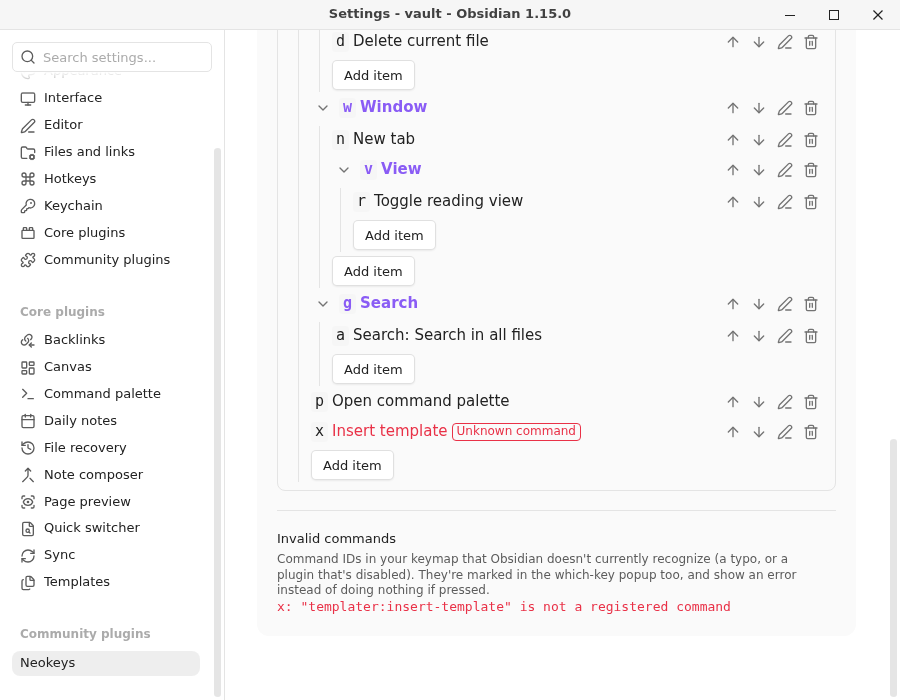
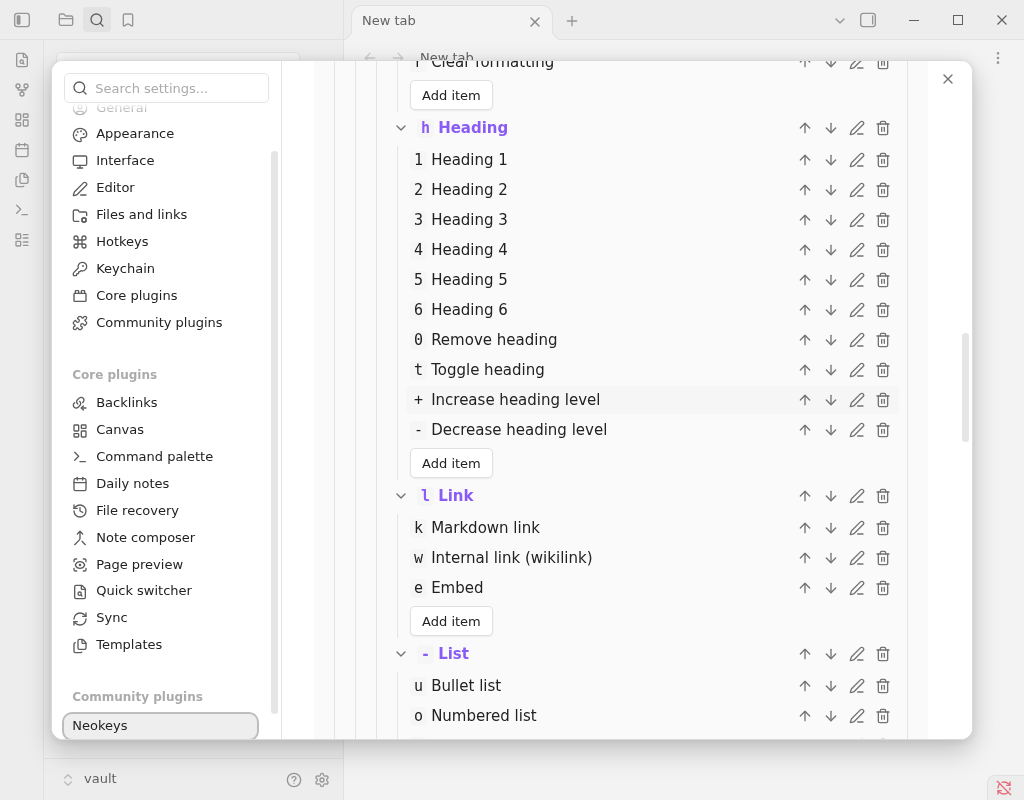
Update README and screenshots for the new default keymap
Document the File/Text/Window/palette scheme and the heading-level
increase/decrease semantics, and replace which-key/tree-editor
screenshots that depicted the old two-group default keymap with real
captures of the new one.

diff --git a/README.md b/README.md
@@ -42,7 +42,7 @@ guidelines expect). To assign one:
 Pressing the leader opens the which-key popup at the root of your keymap. Type further keys to
 descend into a group, <kbd>Backspace</kbd> to go back up one level, and <kbd>Esc</kbd> to close
 the popup at any point. The header shows a breadcrumb of the group labels you've descended
-through (e.g. `Window > View`), not just the raw keys you pressed.
+through (e.g. `Text > Heading`), not just the raw keys you pressed.
 
 ### Combo leader (optional)
 
@@ -115,18 +115,43 @@ items:
     items:
       n: file-explorer:new-file New file
       s: editor:save-file Save file
-      d: app:delete-file
-  w:
-    title: Window
-    description: Panes, tabs, and layout
+      d: app:delete-file Delete current file
+  t:
+    title: Text
+    description: Formatting for the current selection or line
     items:
-      n: workspace:new-tab New tab
-      v:
-        title: View
-        description: Switch how the note is displayed
+      h:
+        title: Heading
+        description: Set or remove the current line's heading level
         items:
-          r: markdown:toggle-preview Toggle reading view
+          '1': editor:set-heading-1 Heading 1
+          '+': neokeys:increase-heading-level Increase heading level
+          '-': neokeys:decrease-heading-level Decrease heading level
 ```
+
+### The default keymap
+
+A fresh install ships with four root groups: **File** (`f`), **Text** (`t`), **Window** (`w`),
+and **Command palette** (`p`). Text groups formatting under five subgroups - **Formatting** (`f`:
+bold, italic, strikethrough, code, highlight, blockquote, clear formatting), **Heading** (`h`:
+set heading 1-6, remove heading, toggle heading, and increase/decrease heading level), **Link**
+(`l`: Markdown link, wikilink, embed), **List** (`-`: bullet/numbered list, checklist, indent), and
+**Add** (`a`: table, code block, math, footnote, horizontal rule, callout, tag). Window groups
+tab/split/window management, loosely following the terminal multiplexer herdr's tab/pane/workspace
+mnemonics (`c` for new, not `n`, so `n`/`p` stay free for next/previous).
+
+#### Increase/decrease heading level
+
+Obsidian has no built-in command to shift a heading's level up or down - only jump to an absolute
+level (`editor:set-heading-1`..`-6`) or remove it (`editor:set-heading-0`). Neokeys adds its own
+`neokeys:increase-heading-level` and `neokeys:decrease-heading-level` commands (bound to `h +` /
+`h -` in the Heading submenu) that read the current line's heading level and step it by one.
+"Increase" means a bigger heading, i.e. toward H1; "decrease" means a smaller heading, i.e. toward
+plain text. Plain text, H6, H5, ..., H1 form one ladder with clamped (non-wrapping) ends:
+increasing plain text lands on H6 (the smallest heading) first, increasing H1 is a no-op;
+decreasing H6 removes the heading back to plain text, decreasing plain text is a no-op. Both
+commands apply to every line touched by the current selection, or the cursor's line when nothing
+is selected.
 
 A key string is an optional run of modifier letters (`c`/`s`/`a`/`m` for ctrl/shift/alt/meta)
 followed by a `-` and a base key, e.g. `c-enter` for Ctrl+Enter, or just a single character for
@@ -176,7 +201,8 @@ since there is no public API signal for "a hardware keyboard is attached."
 - `npm run build` - typecheck + production build
 - `npm test` - Jest unit tests (key parsing, keymap parsing/validation and serialization, tree
   edit operations, tree resolution/sorting, delay logic, combo-leader validation, command-ID
-  validation, breadcrumb building, hotkey-conflict detection, animation settings)
+  validation, breadcrumb building, hotkey-conflict detection, animation settings, heading-level
+  increase/decrease)
 - `npm run lint` - ESLint with `eslint-plugin-obsidianmd`'s recommended config
 - `npm run validate` - mirrors the parts of Obsidian's community-plugin submission checks that
   don't require a live GitHub release (manifest/versions shape, `id`/`version` format)
